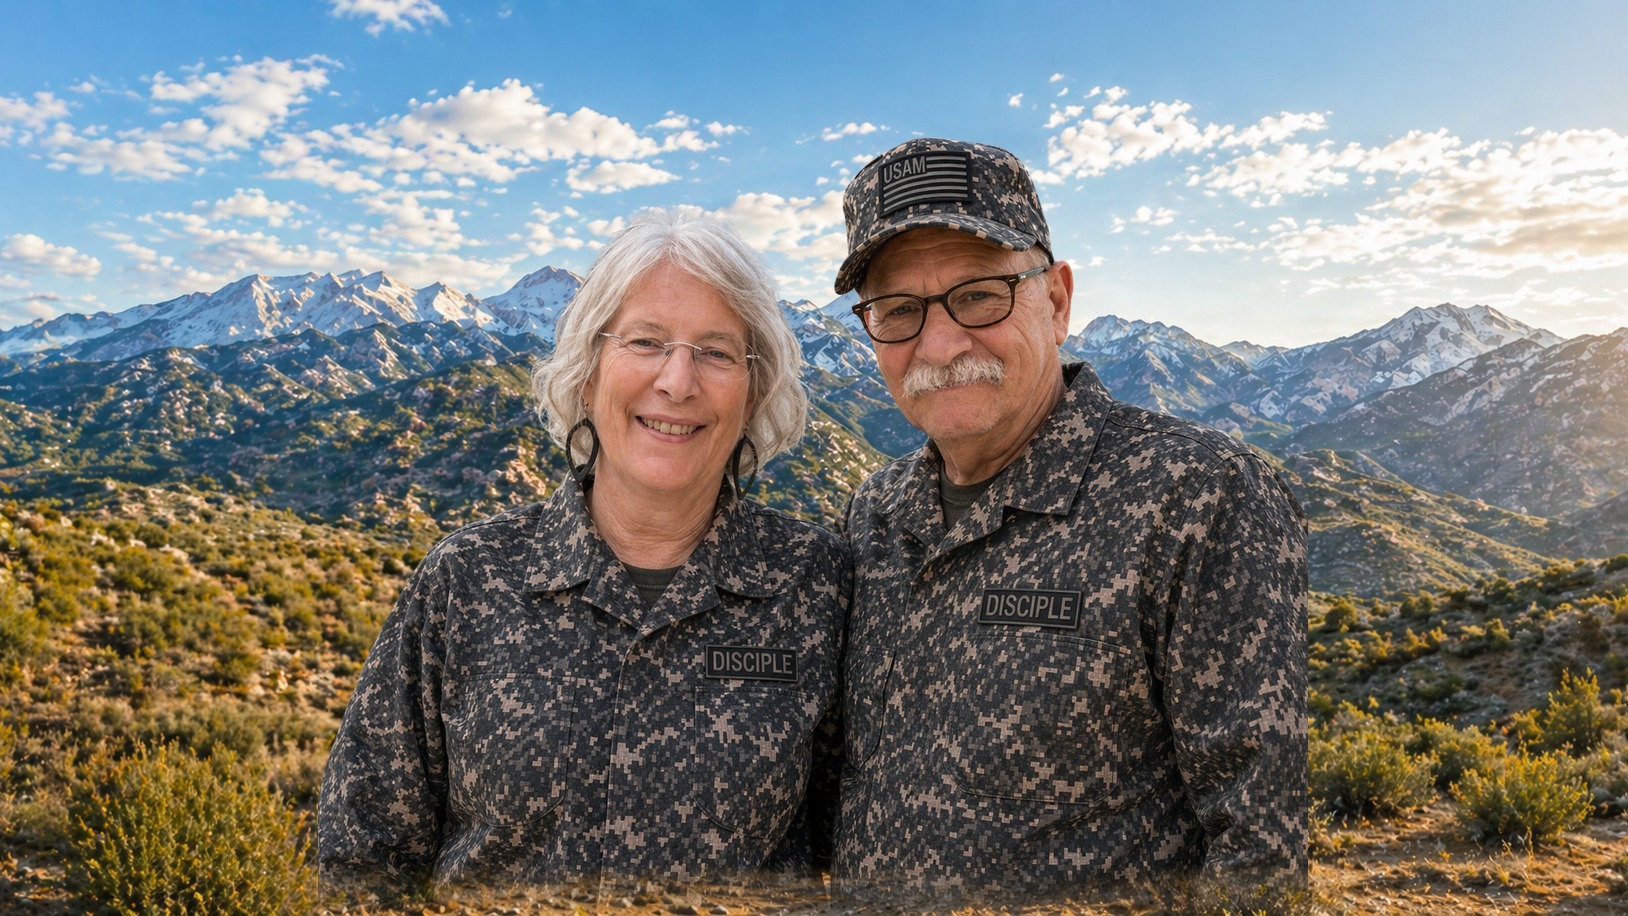
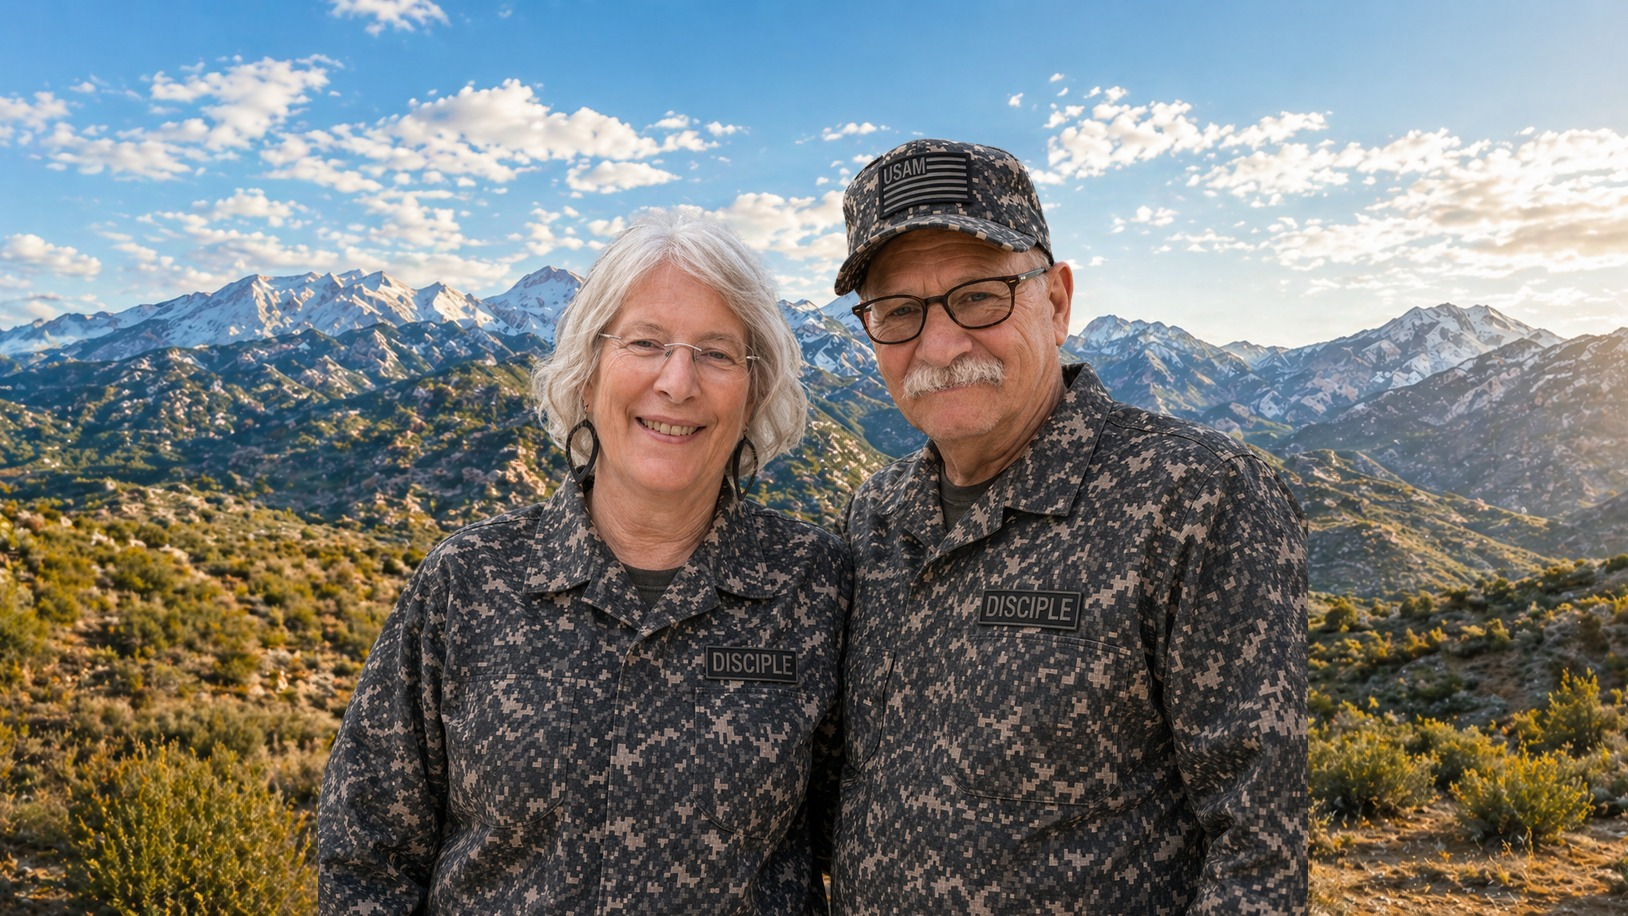
Remove bottom fade and enlarge SAVE homepage screenshot
Local-only commit; not pushed to GitHub. The prior fade made the very
last pixel row fully transparent, showing a thin sliver of background
below the subjects instead of a clean flush edge. Removed the fade
entirely (source cutouts are clean, confirmed earlier) and nudged the
paste position so the subject's bottom edge lands exactly on the
canvas boundary. Also gives the SAVE Standard homepage screenshot its
own full-width block instead of squeezing it into a 3-column row,
so the page is actually legible.

diff --git a/app/board-briefing/page.tsx b/app/board-briefing/page.tsx
@@ -667,8 +667,9 @@ function SaveStandardSection() {
 
         <PullQuote>Healthy ministries require healthy systems and healthy leaders.</PullQuote>
 
-        <div className="mt-14 grid gap-4 sm:grid-cols-3">
-          <BoardBriefingMedia alt="SAVE Standard website" id="save-standard-home" subject="SAVE Standard homepage" />
+        <BoardBriefingMedia alt="SAVE Standard website" className="mt-14" id="save-standard-home" subject="SAVE Standard homepage" />
+
+        <div className="mt-4 grid gap-4 sm:grid-cols-2">
           <BoardBriefingMedia alt="Dirk and Julia Bond" id="dirk-julia" subject="Dirk and Julia Bond" />
           <BoardBriefingMedia alt="Dirk and Julia Bond" id="dirk-julia-portrait" subject="Dirk and Julia Bond" />
         </div>
